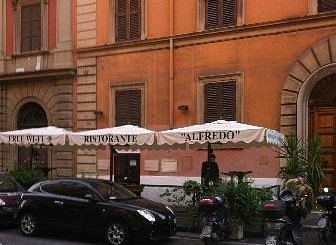
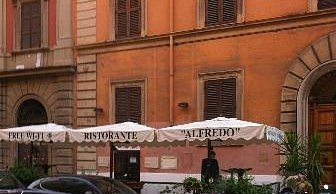
Controllate tutte le inquadrature, tre da raddrizzare
Ventiquattro riquadri con una fotografia dentro, su dieci pagine. Per
ognuno: quanto ingrandisce, che percentuale della fotografia resta
fuori, e com'e' inquadrato davvero a schermo. Le pagine tradotte
condividono foglio di stile e immagini, quindi valgono le stesse misure.

Tre erano storte:

- «La sala, la sera» mostrava soltanto muro e lampada. I tavoli stanno
  in fondo alla fotografia e la fascia della didascalia se li mangiava.
  Ritagliata piu' stretta, e sul telefono — dove la cella e' larga e
  bassa — l'inquadratura scende al 72%: adesso le tovaglie bordeaux e
  le bottiglie si vedono in tutte e due le misure.
- «La facciata» aveva un terzo di riquadro occupato dalle automobili in
  sosta. Ritagliata sopra i paraurti: resta il palazzo, la tenda con il
  nome e la porta. Il riquadro di «Come arrivare» passa da 4:3 a 16:9.
- Il muro dipinto nella scheda del diario e' una panoramica lunga quattro
  volte la sua altezza: in un riquadro quasi quadrato si vedeva solo il
  pannello della poesia. Inquadrato al 62%, entra anche il tempio rotondo.

Il resto e' centrato bene e non si tocca: i dodici piatti, i due poster
del vino, l'aperitivo, la copertina al tramonto, il muro dipinto sulla
pagina del rione, la sala grande.

Un riquadro usciva vuoto nel provino: era lo scatto, non la pagina —
verificato dal vivo che la scheda ha la sua fotografia.

Claude-Session: https://claude.ai/code/session_01P59JWKsoYM7ytdoLo6NxNE

diff --git a/ristorante-alfredo/css/style.css b/ristorante-alfredo/css/style.css
@@ -3621,7 +3621,7 @@ h4 {
 }
 
 .scheda-info__foto .posto-foto {
-  aspect-ratio: 4 / 3;
+  aspect-ratio: 16 / 9;
   max-width: 220px;
   background-size: cover;
   background-position: center;
@@ -3644,4 +3644,25 @@ h4 {
 .cronologia__chiusa {
   max-width: 620px;
   margin: 4.4rem auto 0;
+}
+
+/* --------------------------------------------------------------------------
+   L'inquadratura, foto per foto
+
+   Tutti i riquadri tagliano con «cover», che di suo tiene il centro. Per
+   qualche fotografia il centro non è il soggetto: qui si dice dove guardare.
+   -------------------------------------------------------------------------- */
+
+/* La sala della sera: i tavoli stanno in fondo alla fotografia, e sul
+   telefono la cella è larga e bassa — guardando al centro resterebbero fuori,
+   sotto la fascia della didascalia. Dove non c'è niente da tagliare in
+   altezza, questa riga non cambia nulla. */
+[data-foto="sala-sera"] {
+  background-position: center 72%;
+}
+
+/* Il muro dipinto nella scheda del diario: il tempio rotondo sta a destra
+   del pannello, e in un riquadro quasi quadrato sparirebbe. */
+.articolo-scheda__immagine [data-foto="muro-roma"] {
+  background-position: 62% center;
 }
